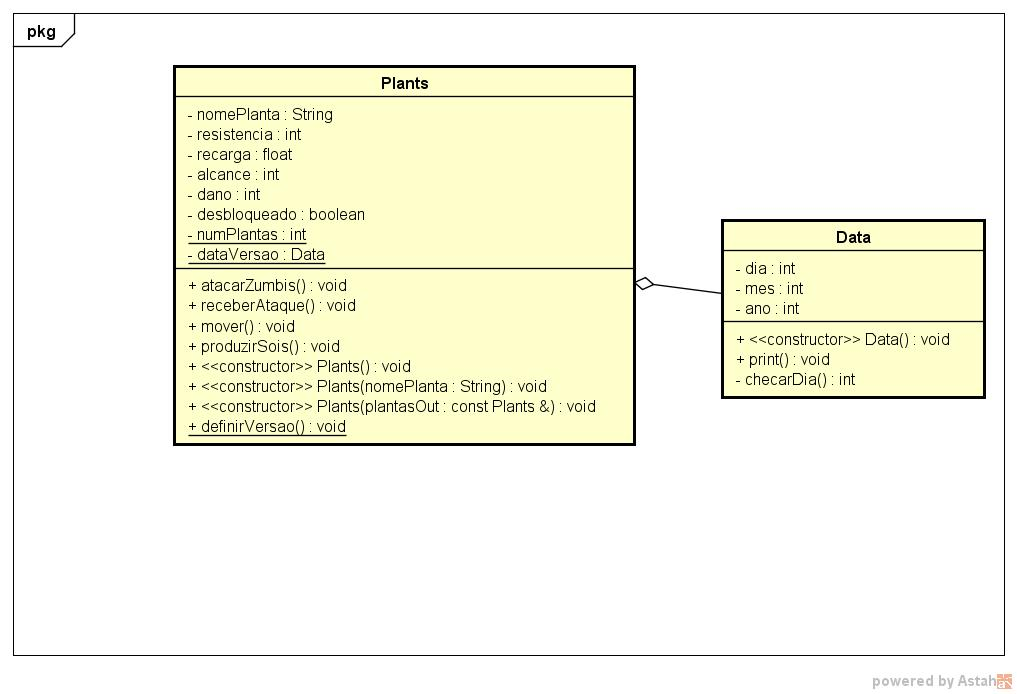
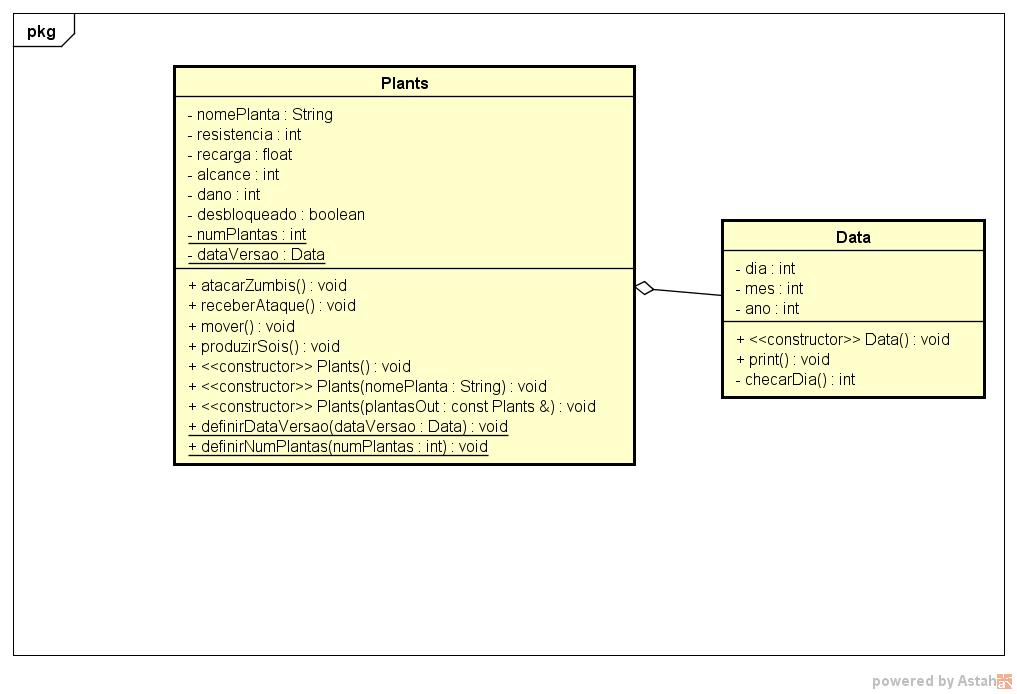
Foi adicionado o método definirNumPlantas(numPlantas : int) nos arquivos do projeto

Changed region(s): [[0.1524, 0.6052, 0.6401, 0.696], [0.6096, 0.3934, 0.7011, 0.4236]]

diff --git a/Plants.cpp b/Plants.cpp
@@ -15,9 +15,9 @@ Plants::Plants()
     desbloqueado = false;
 }
 
-Plants::Plants(const Plants &out)
+Plants::Plants(const Plants &)
 {
-    nomePlanta = out.nomePlanta;
+    nomePlanta = "Girassol";
     resistencia = 100;
     recarga = 100;
     alcance = 0;
@@ -27,7 +27,7 @@ Plants::Plants(const Plants &out)
 
 Plants::Plants(string &nomePlanta)
 {
-        this.nomePlanta = nomePlanta;
+        nomePlanta = "";
         resistencia = 100;
         recarga = 100;
         alcance = 0;
@@ -59,4 +59,13 @@ void Plants::atacarZumbis( )
     }
     else
         cout << "Plant bloqueado!" << '\n';    
+}
+
+void Plants::definirNumPlantas(int numPlantas)
+{
+    do 
+    {
+        numPlantas++;
+    }
+    while(desbloqueado);
 }

diff --git a/Plants.h b/Plants.h
@@ -13,6 +13,8 @@ public:
     void receberAtaque();
     void mover();
     void produzirSois();
+    void definirDataVersao(Data);
+    void definirNumPlantas(int);
 
 private:
 
@@ -23,6 +25,8 @@ private:
     int dano;
     bool desbloqueado;
     static int numPlantas;
+    static Data dataVersao;
+    
     
     
 };
